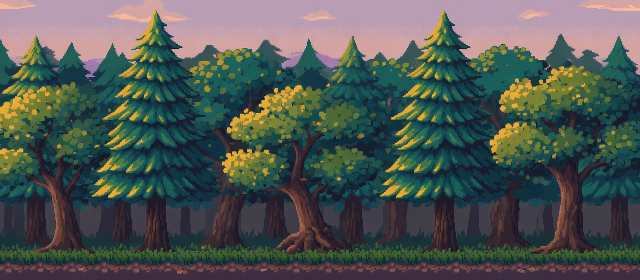
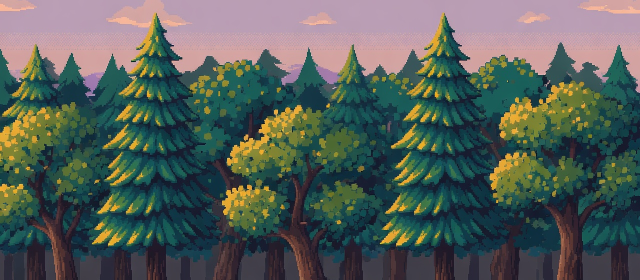
fix(client): clip dusk sky to the arena and cap the stone stage
C5 showed the sky atlas stretched over the HUD as a fake gold floor, and the
reinforced stage as a brick face with no walkable lip. Sky now paints only
inside the arena, forest dirt-path is cropped, and exposed stone uses a
flagstone cap. C6 captures an in-match frame per map.

diff --git a/client/src/DungeonBarrage.Client/App/PixelTerrainAtlas.cs b/client/src/DungeonBarrage.Client/App/PixelTerrainAtlas.cs
@@ -15,6 +15,7 @@ public sealed class PixelTerrainAtlas
     private Texture2D? _soil;
     private Texture2D? _grass;
     private Texture2D? _stone;
+    private Texture2D? _stoneCap;
     private Texture2D? _wood;
     private Texture2D? _sky;
     private Texture2D? _hills;
@@ -35,6 +36,7 @@ public sealed class PixelTerrainAtlas
         _soil = LoadTexture("soil_fill");
         _grass = LoadTexture("grass_cap");
         _stone = LoadTexture("stone_fill");
+        _stoneCap = LoadTexture("stone_cap");
         _wood = LoadTexture("wood_fill");
         _sky = LoadTexture("sky_dusk");
         _hills = LoadTexture("hills_far");
@@ -52,19 +54,14 @@ public sealed class PixelTerrainAtlas
         ArgumentNullException.ThrowIfNull(canvas);
         EnsureLoaded();
 
+        canvas.DrawRect(viewport, new Color(0.31f, 0.46f, 0.54f));
         if (_sky is not null)
         {
-            canvas.DrawTextureRect(_sky, viewport, tile: false);
-        }
-        else
-        {
-            canvas.DrawRect(viewport, new Color(0.42f, 0.55f, 0.62f));
-            var horizon = new Rect2(viewport.Position + new Vector2(0f, viewport.Size.Y * 0.55f), new Vector2(viewport.Size.X, viewport.Size.Y * 0.45f));
-            canvas.DrawRect(horizon, new Color(0.93f, 0.72f, 0.55f));
+            canvas.DrawTextureRect(_sky, arena, tile: false);
         }
 
-        DrawParallaxLayer(canvas, _hills, arena, camera, parallax: 0.18f, heightFraction: 0.78f, extraWidth: 0.20f);
-        DrawParallaxLayer(canvas, _forest, arena, camera, parallax: 0.42f, heightFraction: 0.52f, extraWidth: 0.35f);
+        DrawParallaxLayer(canvas, _hills, arena, camera, parallax: 0.18f, heightFraction: 0.72f, extraWidth: 0.12f);
+        DrawParallaxLayer(canvas, _forest, arena, camera, parallax: 0.42f, heightFraction: 0.48f, extraWidth: 0.18f);
     }
 
     /// <summary>Paints one occupied cell with a world-locked material atlas and optional grass cap.</summary>
@@ -109,15 +106,16 @@ public sealed class PixelTerrainAtlas
                 modulate);
         }
 
-        if (PixelTerrainSampler.IsExposedTop(cells, width, height, x, y) && material != 3)
+        if (PixelTerrainSampler.IsExposedTop(cells, width, height, x, y))
         {
-            var capHeight = Math.Max(3f, dest.Size.Y * 0.42f);
+            var capTexture = material == 3 ? _stoneCap : _grass;
+            var capHeight = Math.Max(3f, dest.Size.Y * (material == 3 ? 0.38f : 0.42f));
             var cap = new Rect2(dest.Position, new Vector2(dest.Size.X, capHeight));
-            if (_grass is not null)
+            if (capTexture is not null)
             {
                 BlitWrapped(
                     canvas,
-                    _grass,
+                    capTexture,
                     cap,
                     worldX: (int)MathF.Floor(x * dest.Size.X),
                     worldY: 0,

diff --git a/scripts/process_pixel_tiles.py b/scripts/process_pixel_tiles.py
@@ -72,23 +72,46 @@ def process_grass(src: Path) -> None:
     save_png(arr, "grass_cap.png")
 
 
-def process_wide(src: Path, dest_name: str, crop_top: float = 0.0) -> None:
+def process_wide(
+    src: Path,
+    dest_name: str,
+    crop_top: float = 0.0,
+    crop_bottom: float = 0.0,
+    size: tuple[int, int] = (640, 360),
+) -> None:
     im = Image.open(src).convert("RGB")
     w, h = im.size
     top = int(h * crop_top)
-    im = im.crop((0, top, w, h))
-    im = pixelate(im, (640, 360 if crop_top == 0.0 else 280))
+    bottom = h - int(h * crop_bottom)
+    im = im.crop((0, top, w, max(top + 1, bottom)))
+    im = pixelate(im, size)
     save_png(np.array(im), dest_name)
+
+
+def process_stone_cap(src: Path) -> None:
+    im = Image.open(src).convert("RGB")
+    w, h = im.size
+    cap = im.crop((0, int(h * 0.06), w, int(h * 0.42)))
+    cap = pixelate(cap, (256, 96))
+    arr = wrap_blend_x(np.array(cap), seam=18)
+    save_png(arr, "stone_cap.png")
 
 
 def main() -> None:
     process_fill(SESSION / "1.jpg", "wood_fill.png")
     process_fill(SESSION / "2.jpg", "soil_fill.png")
-    process_wide(SESSION / "3.jpg", "sky_dusk.png")
+    process_wide(SESSION / "3.jpg", "sky_dusk.png", crop_bottom=0.18)
     process_wide(SESSION / "4.jpg", "hills_far.png")
     process_fill(SESSION / "5.jpg", "stone_fill.png")
     process_grass(SESSION / "6.jpg")
-    process_wide(SESSION / "7.jpg", "forest_mid.png", crop_top=0.18)
+    process_wide(
+        SESSION / "7.jpg",
+        "forest_mid.png",
+        crop_top=0.18,
+        crop_bottom=0.16,
+        size=(640, 280),
+    )
+    process_stone_cap(SESSION / "8.jpg")
 
 
 if __name__ == "__main__":

diff --git a/client/src/DungeonBarrage.Client/App/Main.cs b/client/src/DungeonBarrage.Client/App/Main.cs
@@ -2484,8 +2484,7 @@ public partial class Main : Node2D
         var viewport = GetViewportRect();
         var arena = ArenaRect(widthCells, heightCells);
         _pixelTerrain.DrawBackdrop(this, viewport, UnpannedArenaRect(widthCells, heightCells), EffectiveCameraOffset);
-        DrawRect(arena, new Color(0.05f, 0.07f, 0.10f, 0.18f));
-        DrawRect(arena, new Color(ArenaEdgeColor.R, ArenaEdgeColor.G, ArenaEdgeColor.B, 0.35f), filled: false, width: 1f);
+        DrawRect(arena, new Color(ArenaEdgeColor.R, ArenaEdgeColor.G, ArenaEdgeColor.B, 0.28f), filled: false, width: 1f);
         var font = ThemeDB.FallbackFont;
         DrawString(
             font,
@@ -3829,6 +3828,11 @@ public partial class Main : Node2D
                     powerBasisPoints: 1_500,
                     targetPlayerId: null).ConfigureAwait(true);
                 await WaitTicksAsync(abilityTrans.InputLockTicks, abilityTrans.PresentationTickRate).ConfigureAwait(true);
+
+                QueueRedraw();
+                await ToSignal(GetTree(), SceneTree.SignalName.ProcessFrame);
+                await ToSignal(GetTree(), SceneTree.SignalName.ProcessFrame);
+                _ = CaptureScreenshot(options.MapScreenshotPath(PlayableMaps[mapIndex]));
 
                 humanTurnExecuted = humanTurnExecuted
                     || (moveTrans.Disposition == ClientTransitionDisposition.Accepted

diff --git a/client/src/DungeonBarrage.Client/App/C6Smoke.cs b/client/src/DungeonBarrage.Client/App/C6Smoke.cs
@@ -33,6 +33,17 @@ internal sealed record C6SmokeOptions(string ReportPath, string ScreenshotPath)
             Path.GetDirectoryName(ScreenshotPath) ?? string.Empty,
             Path.GetFileNameWithoutExtension(ScreenshotPath) + "-local-setup" + Path.GetExtension(ScreenshotPath));
 
+    /// <summary>Where an in-match frame of one playable map is written after the human's first shot.</summary>
+    /// <param name="mapId">Stable map identifier.</param>
+    /// <returns>A sibling PNG path derived from <see cref="ScreenshotPath"/>.</returns>
+    internal string MapScreenshotPath(string mapId)
+    {
+        ArgumentException.ThrowIfNullOrWhiteSpace(mapId);
+        return Path.Combine(
+            Path.GetDirectoryName(ScreenshotPath) ?? string.Empty,
+            Path.GetFileNameWithoutExtension(ScreenshotPath) + "-" + mapId + Path.GetExtension(ScreenshotPath));
+    }
+
     /// <summary>
     /// Where the passive-selection modal's screenshot is written, if the human's own gauge
     /// fills during the run — derived the same way. Whether this happens at all depends on the

diff --git a/scripts/write_tile_imports.py b/scripts/write_tile_imports.py
@@ -52,6 +52,7 @@ UIDS = {
     "sky_dusk.png": "f3q6skydusk16bitx",
     "hills_far.png": "g4r7hillsfar16bit",
     "forest_mid.png": "h5s8forestmid16bt",
+    "stone_cap.png": "j6t9stonecap16bit",
 }
 
 

diff --git a/docs/HANDOFF.md b/docs/HANDOFF.md
@@ -154,11 +154,10 @@ vector regeneration.
 
 ## Next task
 
-Export and visually inspect the 16-bit map presentation on all three playable stages (C6: stacked
-blocks still fall, one-shot-red still appears, no invented occupancy). Then continue U4 production
-art from `docs/UI_OVERHAUL_PLAN.md` beginning with Leslie's frog sheet. Leslie's Ant Glob ground-roll
-mechanic remains the first deferred Phase 2 gameplay task; do not mix authority changes into art/UI
-work. Do not shrink `PLAYER_COLLISION_RADIUS` without a simulation-version bump.
+U4 production art from `docs/UI_OVERHAUL_PLAN.md`: original Leslie frog animation sheet, then
+distinct Crow / Erus / Kreena sheets. Do not mix authority changes into that art work. Leslie's
+Ant Glob ground-roll remains the first deferred Phase 2 gameplay task. Do not shrink
+`PLAYER_COLLISION_RADIUS` without a simulation-version bump.
 
 ## Verified checkpoint
 
@@ -174,7 +173,9 @@ work. Do not shrink `PLAYER_COLLISION_RADIUS` without a simulation-version bump.
 - Strict Clippy, rustfmt check, `cargo deny`, .NET format, release export, and diff checks passed.
 - C5: Crow selected through Character Select; one-cell move and direct Precision .57 hit; exactly
   one dotted guide; both gold-hit and red-miss captures; 34 real damage; fire/hit/impact cues;
-  input lock/unlock; turn handoff.
+  input lock/unlock; turn handoff. Re-run 2026-09-07 on `feat/16bit-pixel-maps` captured 1280x720
+  combat frames of crow-perch with soil/grass/stone tiles and dusk forest parallax
+  (`C:\tmp\DungeonBarrage-16bit-maps-20260907`).
 - C6: roster 4; Kreena vs Erus; human/bot turns; all three maps; stacked blocks fell; terminal at
   turn 16; state hash `6b28cd9b5e7c4f3c`; rematch created and disposed cleanly.
 - C7: title plus settings screen captured at 1280x720; all six existing settings/platform checks

diff --git a/docs/BUILD_LOG.md b/docs/BUILD_LOG.md
@@ -4179,3 +4179,10 @@ Replaced occupancy painting with world-locked 16-bit tiles and dusk/hill/forest 
 (`PixelTerrainSampler`, `PixelTerrainAtlas`) without changing simulation, ABI, or content
 versions. Printed the authoritative collision ring on illustrated fighters because the sprite
 is narrower than the two-cell-radius circle. Known issues recorded in `docs/ISSUES.md`.
+
+First C5 capture showed the dusk sky stretched over the whole window, so the gold horizon
+painted a fake floor under the HUD, and the ReinforcedStone stage had no walkable lip. Sky is
+now clipped to the arena, the chrome fills with teal, forest dirt-path was cropped, and
+exposed stone uses a flagstone cap. C5 and C6 then passed: all three maps, stacked blocks
+fell, rematch disposed, state hash `6b28cd9b5e7c4f3c`. Evidence:
+`C:\tmp\DungeonBarrage-16bit-maps-20260907`.
